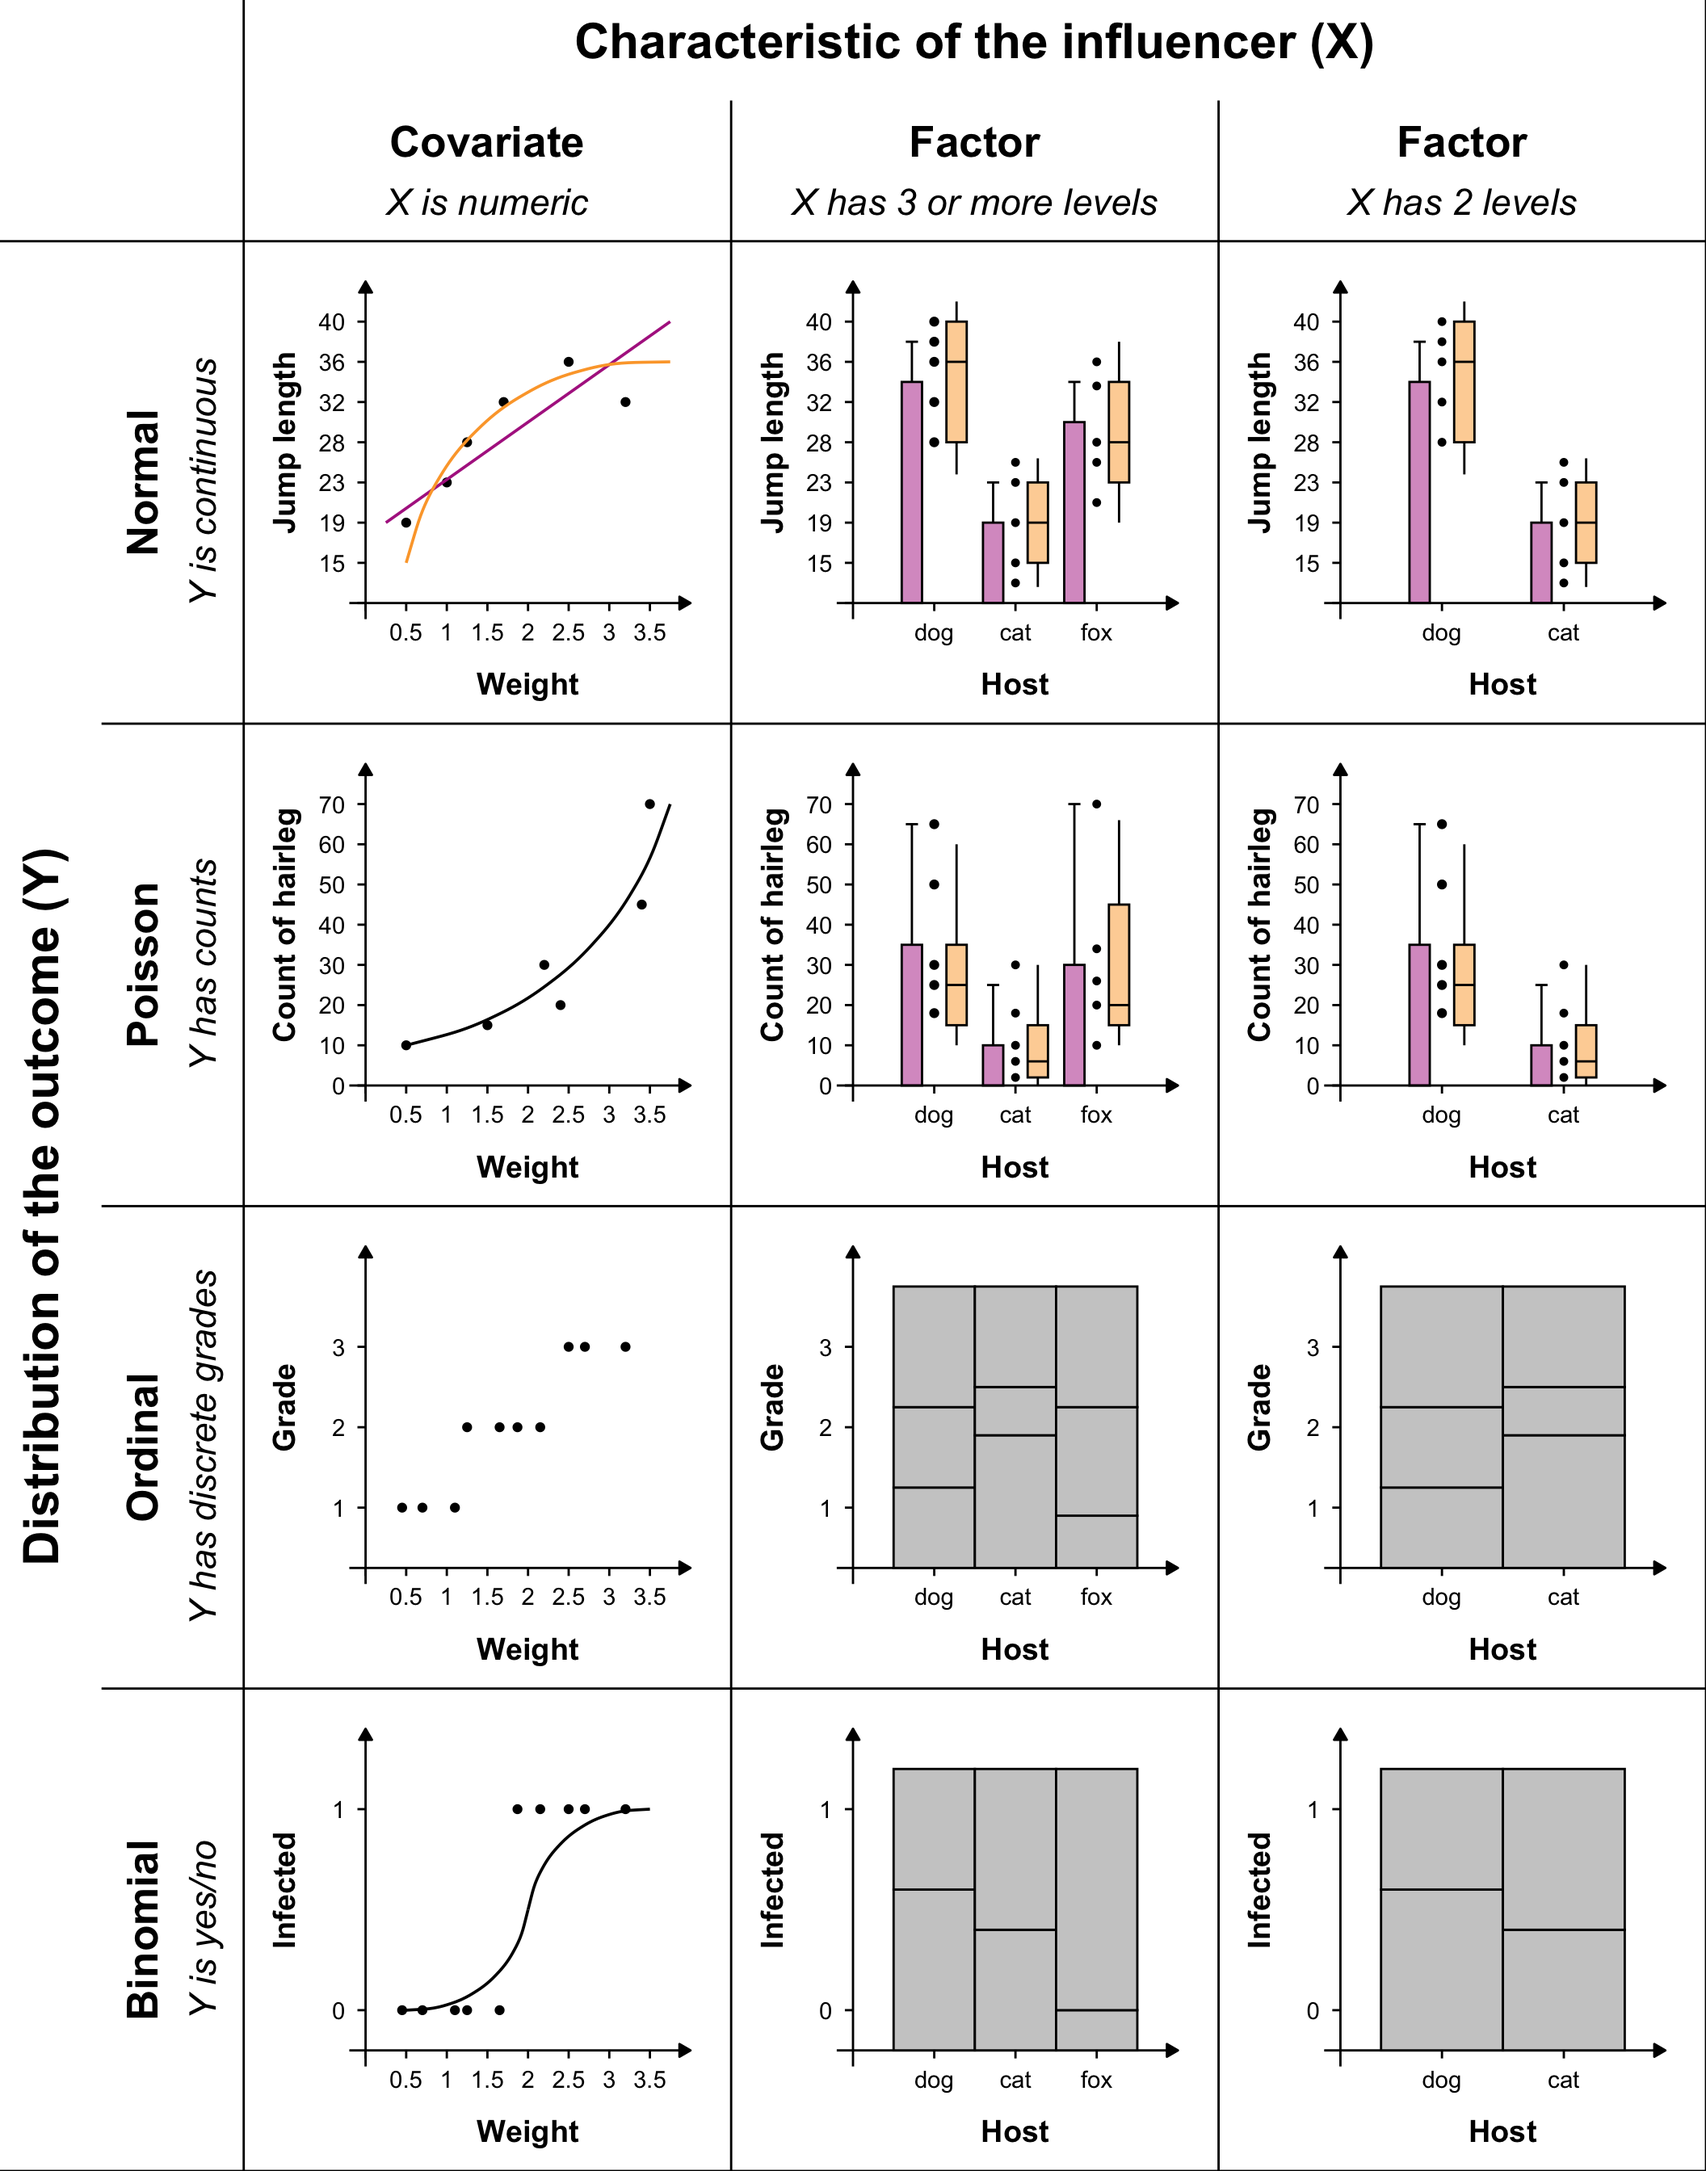
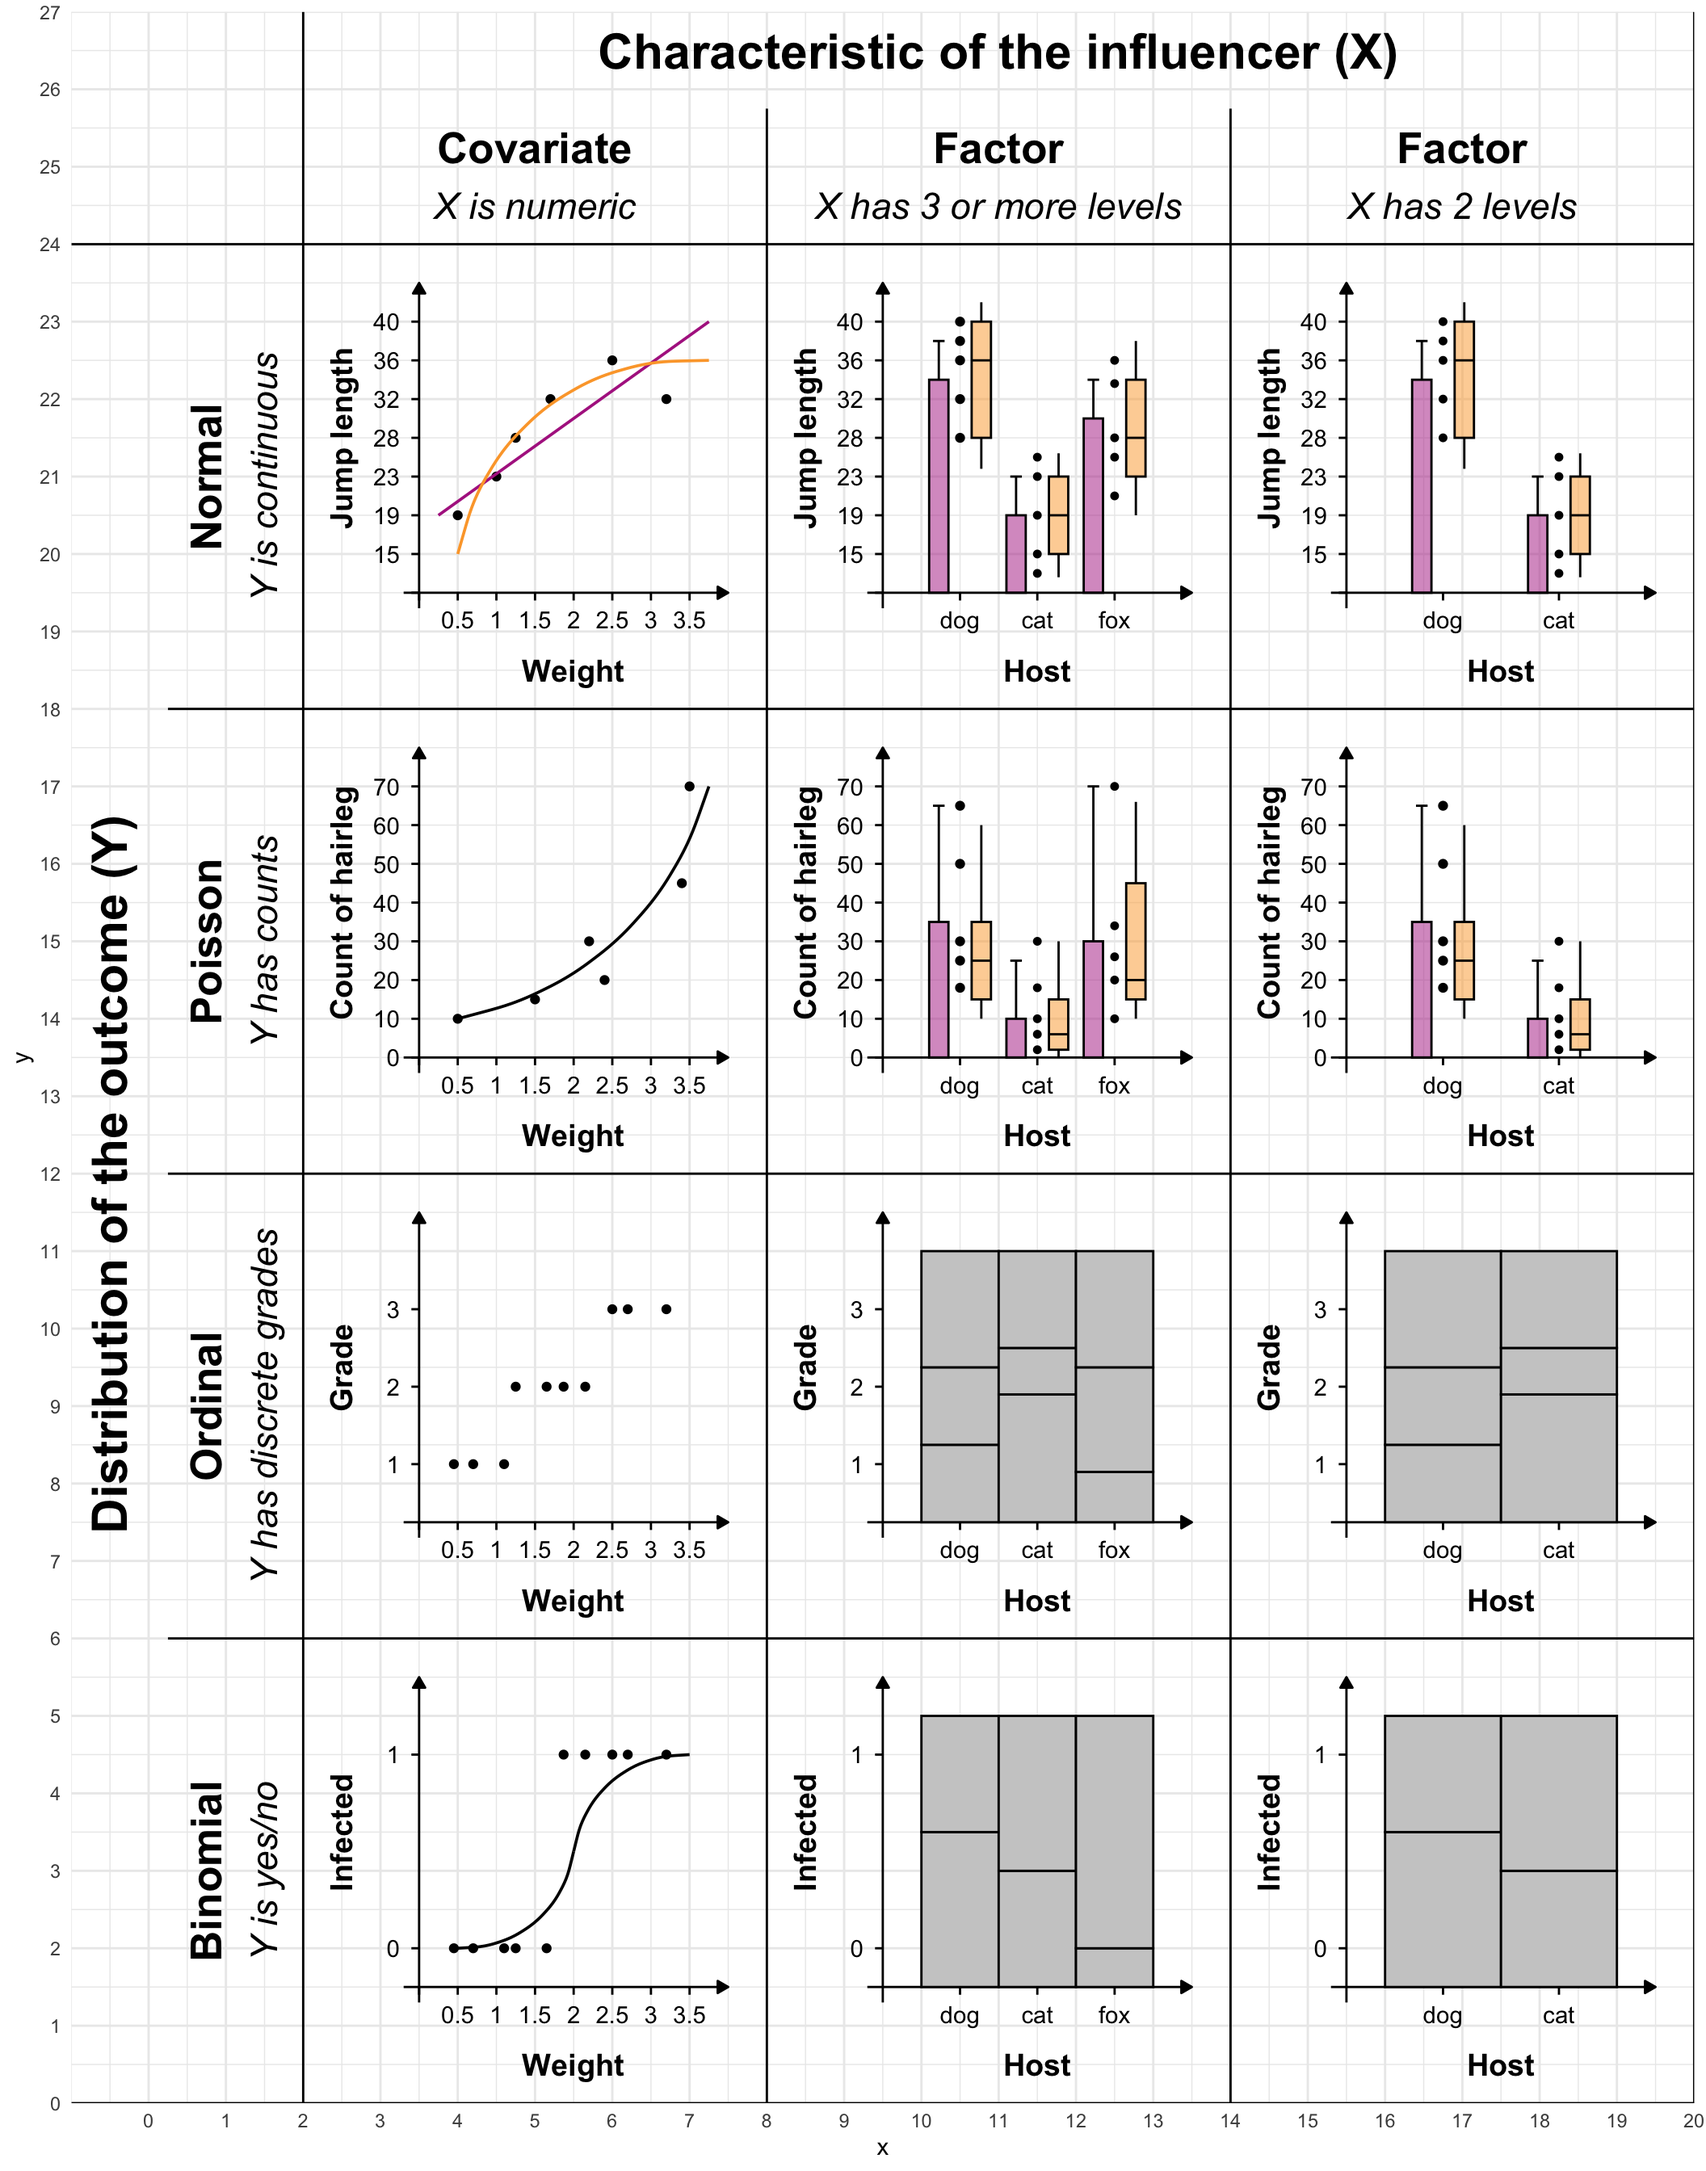
added

diff --git a/docs/chapter-40-preface.html b/docs/chapter-40-preface.html
@@ -361,7 +361,7 @@ pre > code.sourceCode > span > a:first-child::before { text-decoration: underlin
 </header>
 
 
-<p><em>Last modified on 16. December 2025 at 19:56:37</em></p>
+<p><em>Last modified on 16. December 2025 at 19:57:40</em></p>
 <blockquote class="blockquote">
 <p><em>“What problem have you solved, ever, that was worth solving where you knew all the given information in advance? No problem worth solving is like that. In the real world, you have a surplus of information and you have to filter it, or you don’t have sufficient information and you have to go find some.” — <a href="https://www.ted.com/talks/dan_meyer_math_class_needs_a_makeover?language=en&amp;subtitle=en&amp;trigger=5s">Dan Meyer in Math class needs a makeover</a></em></p>
 </blockquote>
@@ -977,8 +977,8 @@ Figure&nbsp;1: foo
 <span id="cb1-89"><a href="#cb1-89" aria-hidden="true" tabindex="-1"></a>}</span>
 <span id="cb1-90"><a href="#cb1-90" aria-hidden="true" tabindex="-1"></a></span>
 <span id="cb1-91"><a href="#cb1-91" aria-hidden="true" tabindex="-1"></a><span class="fu">ggplot</span>() <span class="sc">+</span></span>
-<span id="cb1-92"><a href="#cb1-92" aria-hidden="true" tabindex="-1"></a>  <span class="fu">theme_void</span>() <span class="sc">+</span></span>
-<span id="cb1-93"><a href="#cb1-93" aria-hidden="true" tabindex="-1"></a>  <span class="do">##theme_minimal() +</span></span>
+<span id="cb1-92"><a href="#cb1-92" aria-hidden="true" tabindex="-1"></a>  <span class="do">##theme_void() +</span></span>
+<span id="cb1-93"><a href="#cb1-93" aria-hidden="true" tabindex="-1"></a>  <span class="fu">theme_minimal</span>() <span class="sc">+</span></span>
 <span id="cb1-94"><a href="#cb1-94" aria-hidden="true" tabindex="-1"></a>  <span class="fu">coord_cartesian</span>(<span class="at">xlim =</span> <span class="fu">c</span>(<span class="sc">-</span><span class="dv">1</span>, <span class="dv">20</span>), <span class="at">ylim =</span> <span class="fu">c</span>(<span class="dv">0</span>, <span class="dv">27</span>)) <span class="sc">+</span></span>
 <span id="cb1-95"><a href="#cb1-95" aria-hidden="true" tabindex="-1"></a>  <span class="fu">scale_x_continuous</span>(<span class="at">breaks =</span> <span class="fu">seq</span>(<span class="sc">-</span><span class="dv">10</span>, <span class="dv">10</span>, <span class="dv">1</span>)) <span class="sc">+</span></span>
 <span id="cb1-96"><a href="#cb1-96" aria-hidden="true" tabindex="-1"></a>  <span class="fu">scale_y_continuous</span>(<span class="at">breaks =</span> <span class="fu">seq</span>(<span class="dv">0</span>, <span class="dv">10</span>, <span class="dv">1</span>)) <span class="sc">+</span></span>
